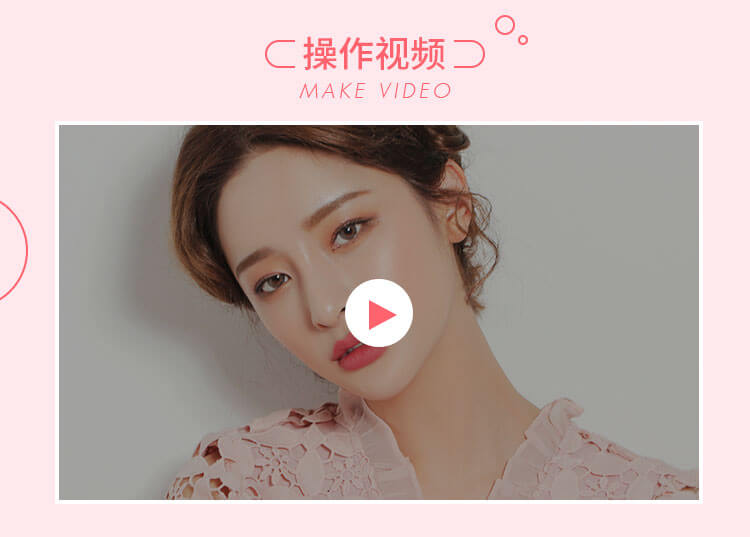
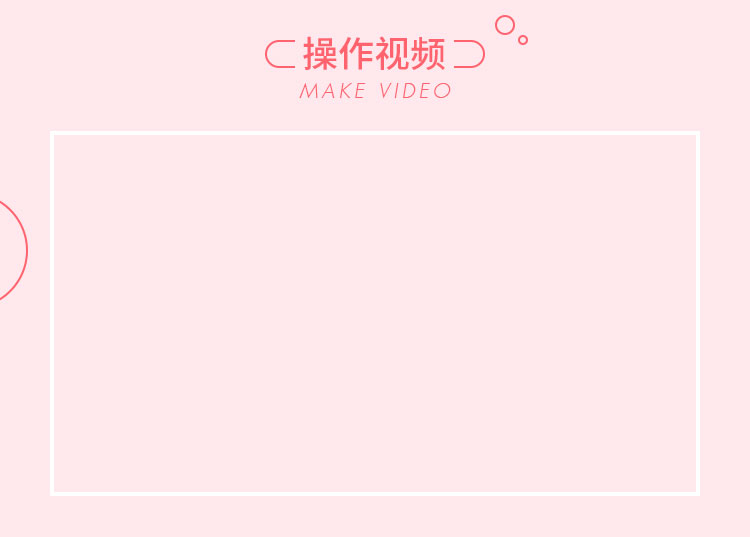
优化新春专题

diff --git a/src/page/topic/new_year2018/index.vue b/src/page/topic/new_year2018/index.vue
@@ -12,17 +12,17 @@
       </div>
       <div class="product pro_01">
         <img src="/static/topic/new_year2018/SF-6.jpg" alt="韩国小气泡">
-        <a class="now-buy" href="javascript:void(0)" @click="addCart(1000646)"></a>
+        <a class="now-buy" href="javascript:void(0)" @click="addCart(1000990)"></a>
       </div>
       <div class="product pro_02">
         <img src="/static/topic/new_year2018/SF-7.jpg" alt="新春自然裸妆款美睫">
         <img src="/static/topic/new_year2018/SF-8.jpg" alt="新春自然裸妆款美睫">
-        <a class="now-buy" href="javascript:void(0)" @click="addCart(1000647)"></a>
+        <a class="now-buy" href="javascript:void(0)" @click="addCart(1000988)"></a>
       </div>
       <div class="product pro_03">
         <img src="/static/topic/new_year2018/SF-9.jpg" alt="旺运势招财开运眉">
         <img src="/static/topic/new_year2018/SF-10.jpg" alt="旺运势招财开运眉">
-        <a class="now-buy" href="javascript:void(0)" @click="addCart(1000648)"></a>
+        <a class="now-buy" href="javascript:void(0)" @click="addCart(1000689)"></a>
       </div>
       <div class="tips">
         <img src="/static/topic/new_year2018/SF-11.jpg" alt="">
@@ -72,8 +72,8 @@ export default {
       from_ad: "topic_newyear2018", //专题来源
 
       shareData: { // APP分享
-        title: '俏猫|新春专题',
-        desc: '有颜，任性大BUY年~',
+        title: '俏猫 | 春“睫”任性大BUY年',
+        desc: '准备好了再回家！嫩肤·长睫毛·伪素颜精致见亲友。',
         link: 'http://mm.qiaocat.com/topic-newyear?plid=119',
         imgUrl: 'http://mm.qiaocat.com/static/topic/new_year2018/share.jpg',
       },
@@ -200,8 +200,8 @@ export default {
       let _this = this;
       wx.ready(function() {
         _this.share_setup(
-          "俏猫|新春专题",
-          "有颜，任性大BUY年~",
+          "俏猫 | 春“睫”任性大BUY年",
+          "准备好了再回家！嫩肤·长睫毛·伪素颜精致见亲友。",
           "http://mm.qiaocat.com/topic-newyear?plid=119",
           "http://mm.qiaocat.com/static/topic/new_year2018/share.jpg",
         );
@@ -255,11 +255,13 @@ export default {
   }
   #demo-video {
     position: absolute;
-    top: 48%;
+    top: 49%;
     left: 8%;
     display: block;
     width: 86%;
-    height: 12%;
+    height: 10%;
+    border: 0.2rem solid #fff;
+    background-color: #000;
   }
   .product {
     .now-buy {

diff --git a/src/page/topic/data.config.js b/src/page/topic/data.config.js
@@ -67,11 +67,7 @@ export const halloweenData = {
   /**
   *新春专题
   */
-  /*1000990: { id: '1000990', name: '韩国小气泡', price: '98', img: '/static/topic/new_year2018/product_1.jpg'},
+  1000990: { id: '1000990', name: '韩国小气泡', price: '98', img: '/static/topic/new_year2018/product_1.jpg'},
   1000988: { id: '1000988', name: '新春自然裸妆款美睫', price: '388', img: '/static/topic/new_year2018/product_2.jpg' },
-  1000689: { id: '1000689', name: '旺运势招财开运眉', price: '3280', img: '/static/topic/new_year2018/product_3.jpg' },*/
-
-  1000646: { id: '1000646', name: '韩国小气泡', price: '98', img: '/static/topic/new_year2018/product_1.jpg'},
-  1000647: { id: '1000647', name: '新春自然裸妆款美睫', price: '388', img: '/static/topic/new_year2018/product_2.jpg' },
-  1000648: { id: '1000648', name: '旺运势招财开运眉', price: '3280', img: '/static/topic/new_year2018/product_3.jpg' },
+  1000689: { id: '1000689', name: '旺运势招财开运眉', price: '3280', img: '/static/topic/new_year2018/product_3.jpg' },
 };

diff --git a/src/router/index.js b/src/router/index.js
@@ -728,7 +728,7 @@ const router = new Router({
         {
           path: '/topic-newyear',
           meta: {
-            title: '新春专题'
+            title: '春“睫”任性大BUY年'
           },
           component: newyear2018
         },

diff --git a/src/page/detailpage/imgtext.vue b/src/page/detailpage/imgtext.vue
@@ -54,6 +54,8 @@ export default {
 /*处理v-html中的样式*/
 .picText_detail img {
   display: block;
+
+  width: 100%;
 }
 </style>
 
